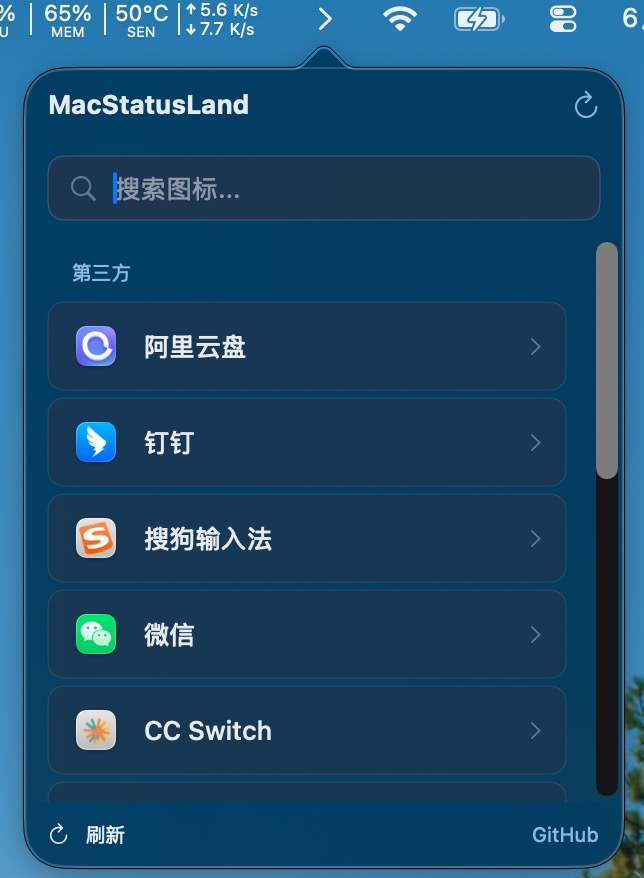
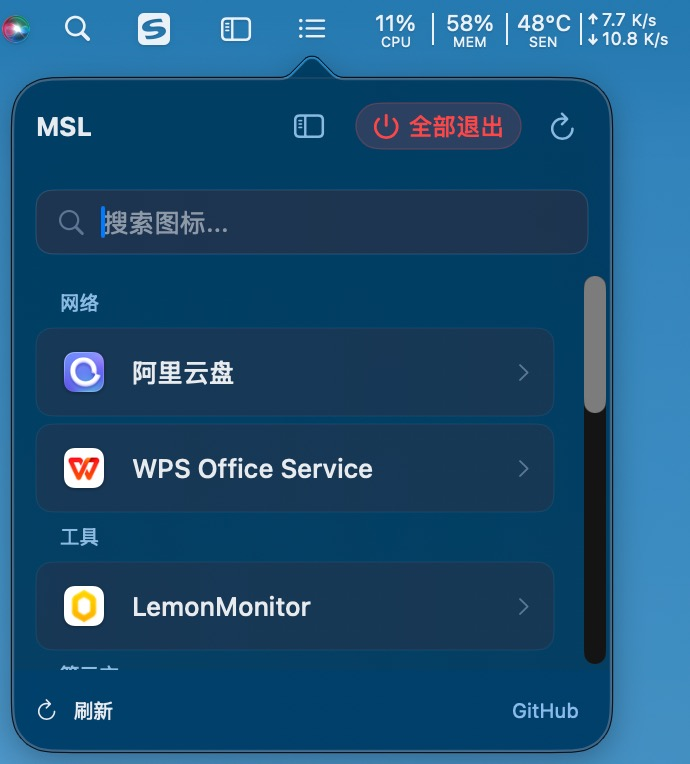
fix: 修复不同类型 app 的点击响应，隐藏状态下自动临时抬起
- 用 CGWindowList 过滤 layer=0 的可见窗口，判断更准确
  · 修复 WPS Office Service 类 app（AX 报告有窗口但实为隐藏后台窗口）
- 纯菜单栏 app（阿里云盘等）：改用 NSWorkspace.openApplication + activates=true
- Helper（Docker.app/Contents/MacOS/...）：向上找主 .app 后同样走 openApplication
- 补发 kAEReopenApplication Apple Event（rapp），语义等同双击 Dock 图标
  · 解决 Electron/Chromium 类 app（Docker Desktop）只激活不开窗
- 新增 PlaceholderService.performTemporaryReveal：隐藏状态下点击 popover 类 app
  时临时收起分界图标，等原图标就位后 AXPress，1.5s 后恢复隐藏
- README 补充不同 app 类型的点击行为说明；主图标符号更新为 ☰

diff --git a/MacStatusLand/Services/AccessibilityService.swift b/MacStatusLand/Services/AccessibilityService.swift
@@ -1,5 +1,6 @@
 import Foundation
 import AppKit
+import CoreGraphics
 
 class AccessibilityService {
     
@@ -245,30 +246,65 @@ class AccessibilityService {
                 print("👉 Raised \(windowCount) windows for \(icon.appName)")
             }
 
-            // If no windows found, this is probably a helper/login item
-            // Try to find main app in parent directory (look up until we find a .app package that is not current helper)
-            if windowCount == 0 {
-                // Get the helper app's bundle URL from running process
+            // 判断是否有"真正的普通窗口"（非菜单/悬浮）
+            // AX 里的 windowCount 会把状态栏 popover、隐藏后台窗口都算进去，导致
+            // 像 WPS Office Service 这种明明没有主界面却 count=1 的情况不进兜底分支。
+            // 用 CGWindowList 过滤 layer=0（普通应用窗口）来更准确判断。
+            let hasNormalWindow = appHasNormalWindow(pid: pid)
+            print("👉 hasNormalWindow=\(hasNormalWindow) for \(icon.appName)")
+
+            // If no visible normal window, this is probably a helper/login item OR a menu-bar-only app
+            if !hasNormalWindow {
                 if let app = NSRunningApplication(processIdentifier: pid), let bundleURL = app.bundleURL {
-                    var components = bundleURL.path.components(separatedBy: "/")
-                    print("👉 Searching for main app from helper path: \(bundleURL.path)")
+                    let path = bundleURL.path
+                    print("👉 No visible window. Trying to open main window from: \(path)")
 
-                    // Remove helper name first, then keep going up until we find a .app
-                    if !components.isEmpty {
-                        components.removeLast() // remove helper app name
-                    }
-
-                    while !components.isEmpty && !(components.last?.hasSuffix(".app") ?? false) {
-                        components.removeLast()
-                    }
-
-                    if let last = components.last, last.hasSuffix(".app") {
-                        let mainAppPath = components.joined(separator: "/")
-                        if FileManager.default.fileExists(atPath: mainAppPath) {
-                            let mainAppURL = URL(fileURLWithPath: mainAppPath)
-                            openSuccess = NSWorkspace.shared.open(mainAppURL)
-                            print("👉 Found main app at \(mainAppPath), opening... success=\(openSuccess)")
+                    // Helper 场景：路径含 /Library/LoginItems/ 或 /Contents/Library/ → 向上查找主 .app
+                    let isHelper = path.contains("/Library/LoginItems/") || path.contains("/Contents/")
+                    if isHelper {
+                        var components = path.components(separatedBy: "/")
+                        if !components.isEmpty { components.removeLast() }
+                        while !components.isEmpty && !(components.last?.hasSuffix(".app") ?? false) {
+                            components.removeLast()
                         }
+                        if let last = components.last, last.hasSuffix(".app") {
+                            let mainAppPath = components.joined(separator: "/")
+                            if FileManager.default.fileExists(atPath: mainAppPath) {
+                                let mainAppURL = URL(fileURLWithPath: mainAppPath)
+                                // 用 openApplication 而非 open，触发 default launch，
+                                // 对已运行 app（如 Docker）会请求它显示主窗口
+                                let config = NSWorkspace.OpenConfiguration()
+                                config.activates = true
+                                NSWorkspace.shared.openApplication(at: mainAppURL, configuration: config) { _, error in
+                                    if let error = error {
+                                        print("⚠ openApplication failed for helper's main app \(mainAppPath): \(error)")
+                                    } else {
+                                        print("👉 openApplication succeeded for helper's main app \(mainAppPath)")
+                                    }
+                                }
+                                // 补发 reopen Apple Event，模拟双击 Dock 图标语义
+                                // openApplication 对已运行 app 只激活不开窗（如 Docker Electron）
+                                if let mainApp = runningApp(for: mainAppURL) {
+                                    sendReopenEvent(to: mainApp.processIdentifier)
+                                }
+                                openSuccess = true
+                            }
+                        }
+                    } else {
+                        // 菜单栏 app 自身：NSWorkspace.open 请求系统调起主窗口
+                        // 使用 openApplication 显式带 activate 语义，效果类似双击 Dock 图标
+                        let config = NSWorkspace.OpenConfiguration()
+                        config.activates = true
+                        NSWorkspace.shared.openApplication(at: bundleURL, configuration: config) { _, error in
+                            if let error = error {
+                                print("⚠ openApplication failed for \(path): \(error)")
+                            } else {
+                                print("👉 openApplication succeeded for \(path)")
+                            }
+                        }
+                        // 补发 reopen（rapp）Apple Event，语义 = 双击 Dock 图标
+                        sendReopenEvent(to: pid)
+                        openSuccess = true
                     }
                 }
             }
@@ -289,6 +325,64 @@ class AccessibilityService {
         // If either click or open succeeded, count as success
         let overallSuccess = pressSuccess || openSuccess
         return overallSuccess
+    }
+
+    /// 检查指定进程是否有真正的"普通应用窗口"（layer=0）
+    /// 用 CGWindowListCopyWindowInfo，过滤：
+    /// - kCGWindowLayer == 0（普通窗口层；菜单、Dock、状态栏 popover 等 layer > 0）
+    /// - kCGWindowOwnerPID == pid
+    /// - 有非零尺寸
+    private func appHasNormalWindow(pid: pid_t) -> Bool {
+        let options: CGWindowListOption = [.optionOnScreenOnly, .excludeDesktopElements]
+        guard let list = CGWindowListCopyWindowInfo(options, kCGNullWindowID) as? [[String: Any]] else {
+            return false
+        }
+        for info in list {
+            guard let ownerPID = info[kCGWindowOwnerPID as String] as? pid_t, ownerPID == pid else { continue }
+            let layer = info[kCGWindowLayer as String] as? Int ?? 0
+            guard layer == 0 else { continue }
+            if let bounds = info[kCGWindowBounds as String] as? [String: Any],
+               let w = bounds["Width"] as? CGFloat, let h = bounds["Height"] as? CGFloat,
+               w > 50, h > 50 {
+                return true
+            }
+        }
+        return false
+    }
+
+    /// 查找 bundleURL 对应的正在运行的 NSRunningApplication
+    private func runningApp(for bundleURL: URL) -> NSRunningApplication? {
+        return NSWorkspace.shared.runningApplications.first { $0.bundleURL == bundleURL }
+    }
+
+    /// 向目标进程发送 reopen (`rapp`) Apple Event，等效双击 Dock 图标
+    /// 对 Electron / Chromium 类应用尤为关键：openApplication 只激活不开窗，reopen 才会显示主窗口
+    private func sendReopenEvent(to pid: pid_t) {
+        var pidVar = pid
+        guard let target = NSAppleEventDescriptor(
+            descriptorType: typeKernelProcessID,
+            bytes: &pidVar,
+            length: MemoryLayout.size(ofValue: pidVar)
+        ) else {
+            print("⚠ Failed to build target descriptor for reopen pid=\(pid)")
+            return
+        }
+        let event = NSAppleEventDescriptor(
+            eventClass: AEEventClass(kCoreEventClass),
+            eventID: AEEventID(kAEReopenApplication),
+            targetDescriptor: target,
+            returnID: AEReturnID(kAutoGenerateReturnID),
+            transactionID: AETransactionID(kAnyTransactionID)
+        )
+        var reply = AppleEvent()
+        var eventCopy = event.aeDesc!.pointee
+        let sendResult = AESendMessage(&eventCopy, &reply, AESendMode(kAENoReply), 1)
+        if sendResult == noErr {
+            print("👉 Sent reopen event to pid=\(pid)")
+        } else {
+            print("⚠ Reopen event failed pid=\(pid) OSStatus=\(sendResult)")
+        }
+        AEDisposeDesc(&reply)
     }
 }
 

diff --git a/MacStatusLand/ViewModels/MenuBarViewModel.swift b/MacStatusLand/ViewModels/MenuBarViewModel.swift
@@ -132,19 +132,23 @@ class MenuBarViewModel {
 
             if uniqueID == icon.id {
                 print("✅ [MenuBarViewModel] found raw icon, performing action...")
-                let success = accessibilityService.performAction(raw)
-                print(success ? "✅ [MenuBarViewModel] click succeeded" : "❌ [MenuBarViewModel] click failed")
-
-                if success {
-                    if let index = icons.firstIndex(where: { $0.id == icon.id }) {
-                        icons[index].lastUsed = Date()
+                // 隐藏状态下先临时抬起，让被挤出屏幕的原图标恢复可点击位置
+                // 对 popover-only app（Docker/微信 等）尤为关键
+                PlaceholderService.shared.performTemporaryReveal { [weak self] in
+                    guard let self = self else { return }
+                    let success = self.accessibilityService.performAction(raw)
+                    print(success ? "✅ [MenuBarViewModel] click succeeded" : "❌ [MenuBarViewModel] click failed")
+                    if success {
+                        if let index = self.icons.firstIndex(where: { $0.id == icon.id }) {
+                            self.icons[index].lastUsed = Date()
+                        }
+                    } else {
+                        self.errorMessage = "点击失败"
+                        self.showError = true
                     }
-                } else {
-                    errorMessage = "点击失败"
-                    showError = true
                 }
-
-                return success
+                // 返回 true：抬起 + 触发都是异步的，走乐观策略；真失败时上面回调已 setError
+                return true
             }
         }
 

diff --git a/MacStatusLand/Services/PlaceholderService.swift b/MacStatusLand/Services/PlaceholderService.swift
@@ -139,6 +139,34 @@ class PlaceholderService: NSObject {
         SettingsService.shared.autoHideLeftIcons.toggle()
     }
 
+    // MARK: - 临时抬起
+
+    /// 若当前处于隐藏状态，临时收起 divider 让菜单栏图标全部可见，执行 action，然后恢复
+    /// - 用途：点击一个原本被挤出屏幕的 app 图标时，先"抬起"隐藏帷幕让 AXPress 能命中真实位置
+    /// - 若当前未开启隐藏，直接同步执行 action，不做任何抬起
+    func performTemporaryReveal(action: @escaping () -> Void) {
+        guard let item = dividerItem, SettingsService.shared.autoHideLeftIcons else {
+            action()
+            return
+        }
+        // 记住原长度并收起
+        let originalLength = item.length
+        item.length = NSStatusItem.squareLength
+
+        // 等菜单栏布局稳定后触发 action
+        DispatchQueue.main.asyncAfter(deadline: .now() + 0.35) {
+            action()
+            // 兜底：action 完成后延迟恢复隐藏；popover-only app 的 popover 需要用户点外部关闭，
+            // 若立刻恢复 length 会瞬间把 popover 挤走。等 1.5s 让 popover 显示稳定
+            DispatchQueue.main.asyncAfter(deadline: .now() + 1.5) {
+                // 用户可能在此期间自己切换了隐藏状态；仅当仍应隐藏时才恢复长度
+                if SettingsService.shared.autoHideLeftIcons {
+                    item.length = originalLength
+                }
+            }
+        }
+    }
+
     private func handleSettingChanged() {
         let enabled = SettingsService.shared.autoHideLeftIcons
         guard let item = dividerItem else { return }

diff --git a/README.md b/README.md
@@ -94,10 +94,10 @@ swift run
 
 | 图标 | 位置 | 作用 |
 |------|------|------|
-| `≡`（line.3.horizontal） | 主图标 | **打开 MacStatusLand 弹窗**，管理被刘海遮挡的图标 |
+| `☰`（list.bullet） | 主图标 | **打开 MacStatusLand 弹窗**，管理被刘海遮挡的图标 |
 | `▮`（sidebar.left） | 分界图标（在主图标左侧） | **一键隐藏 / 恢复其左侧的所有状态栏图标**，用于腾出被刘海占用的空间 |
 
-### 主图标 `≡`
+### 主图标 `☰`
 - **左键点击** — 显示弹窗，列出所有第三方应用图标；点击某个图标即触发对应应用的原状态栏动作
 - **右键点击** — 显示菜单（设置、退出）
 - 弹窗顶部右侧有一个「侧栏」快捷开关，可直接切换隐藏 / 显示左侧图标
@@ -111,11 +111,24 @@ swift run
 
 > 💡 **典型玩法**：把「分界图标」拖到你希望保留可见的最左侧图标之后，之后点一下即可把左侧不常用的图标折叠掉；再点一下恢复。
 
+### 🎯 不同类型 app 的点击行为
+
+在弹窗中点击应用图标时，MacStatusLand 会自动选择合适的方式召唤该 app：
+
+| app 类型 | 举例 | 触发方式 |
+|---------|------|---------|
+| 有可见主窗口的普通 app | 微信、iCopy | 激活进程 + 抬起所有窗口 |
+| 纯菜单栏 app（无主窗口） | 阿里云盘、TopSAP | `NSWorkspace.openApplication` 拉起主窗口 |
+| 菜单栏 popover 类 app | Docker Desktop、WPS Office Service | 触发原图标的 AXPress，弹出 app 自带 popover |
+| Helper / 登录项启动的 app | Docker（`Docker.app/Contents/MacOS/Docker Desktop.app`） | 向上查找主 `.app`，`openApplication` + reopen Apple Event |
+
+> 💡 **隐藏状态下点击 popover 类 app**：MacStatusLand 会自动"临时抬起"分界图标，让被挤出屏幕的原图标短暂恢复可见（约 1.5 秒），触发其 popover 后再恢复隐藏。所以在隐藏模式下点 Docker 也能正常弹出 popover。
+
 ### ⚠ 重要提示
 
-**请把主图标 `≡` 保持在「分界图标 ▮」的右侧。** 否则开启隐藏时，主图标也会被一起挤出屏幕，你就只能通过重启应用来恢复。
+**请把主图标 `☰` 保持在「分界图标 ▮」的右侧。** 否则开启隐藏时，主图标也会被一起挤出屏幕，你就只能通过重启应用来恢复。
 
-同时**建议将主图标 `≡` 拖动到菜单栏最右侧**，避免应用自身被刘海遮挡。
+同时**建议将主图标 `☰` 拖动到菜单栏最右侧**，避免应用自身被刘海遮挡。
 
 > 操作方法：按住 `⌘ Command`，拖动图标到目标位置。
 
